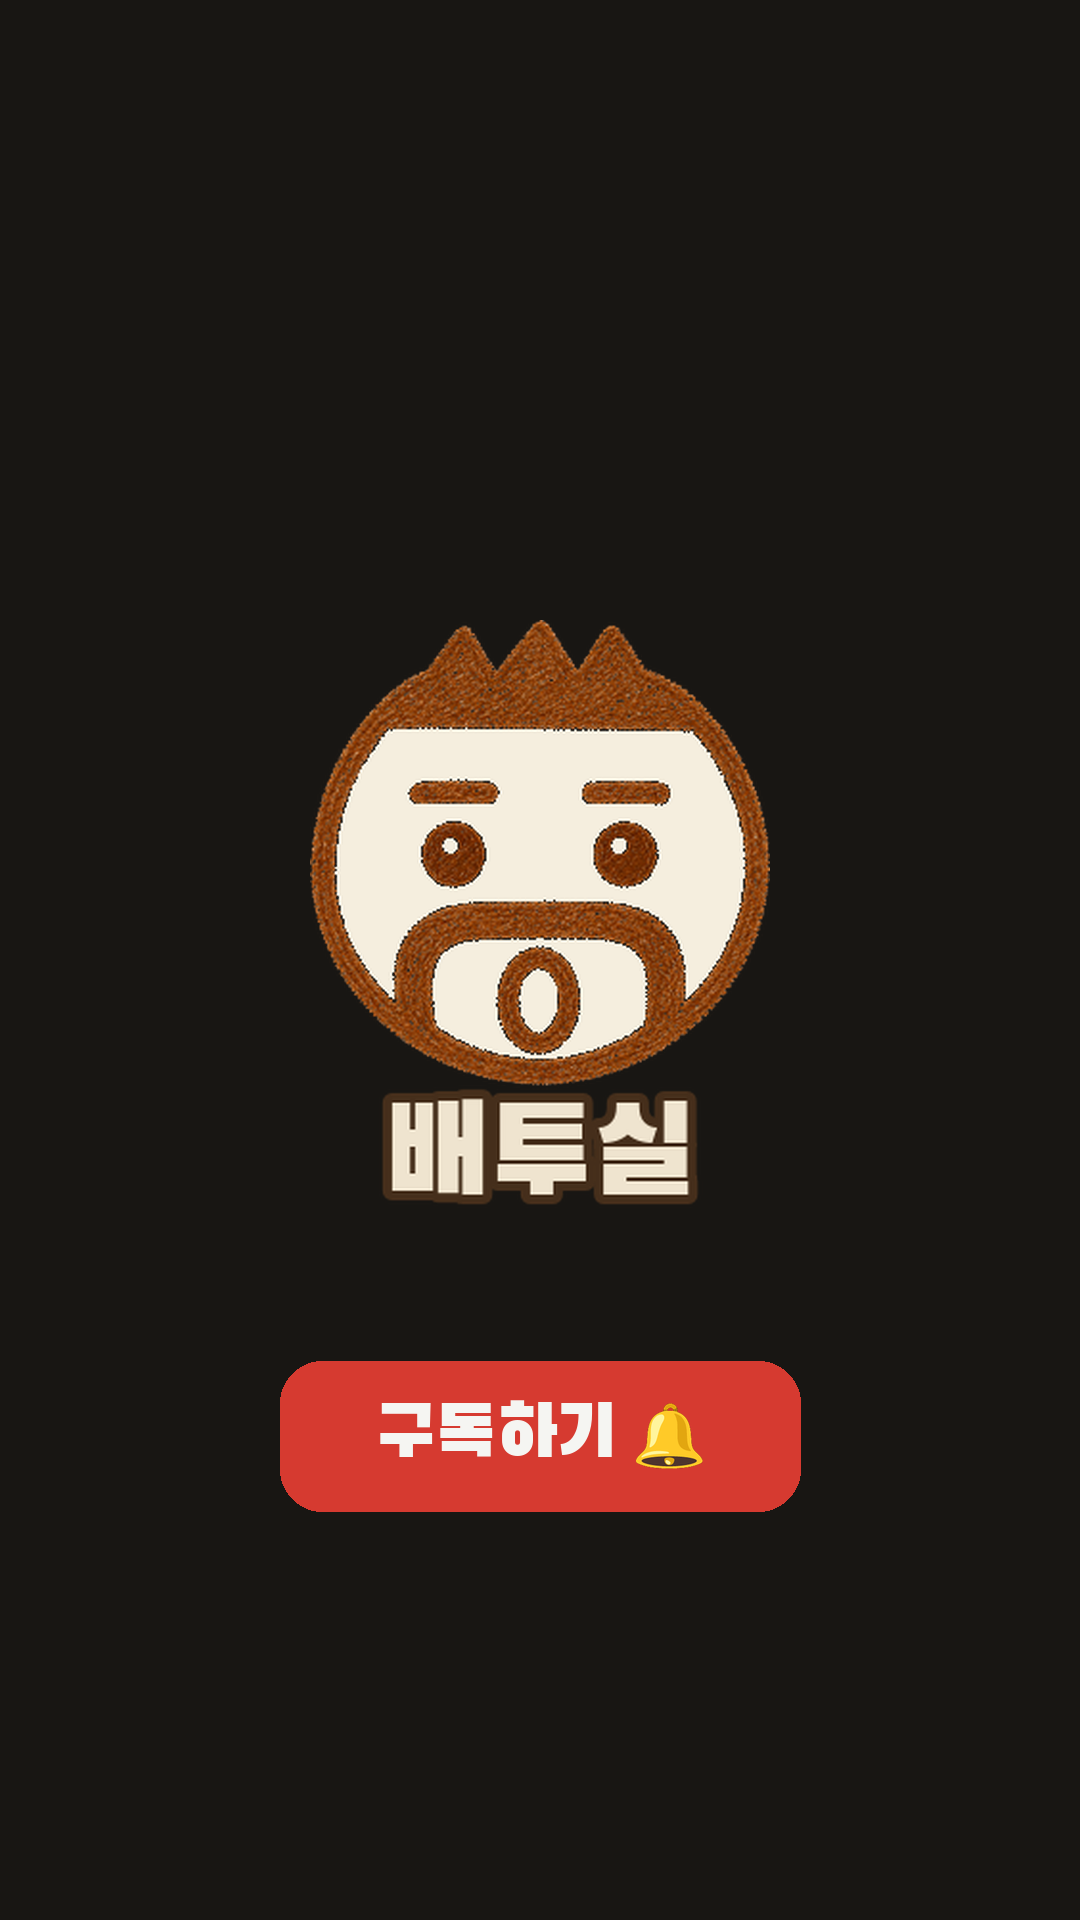
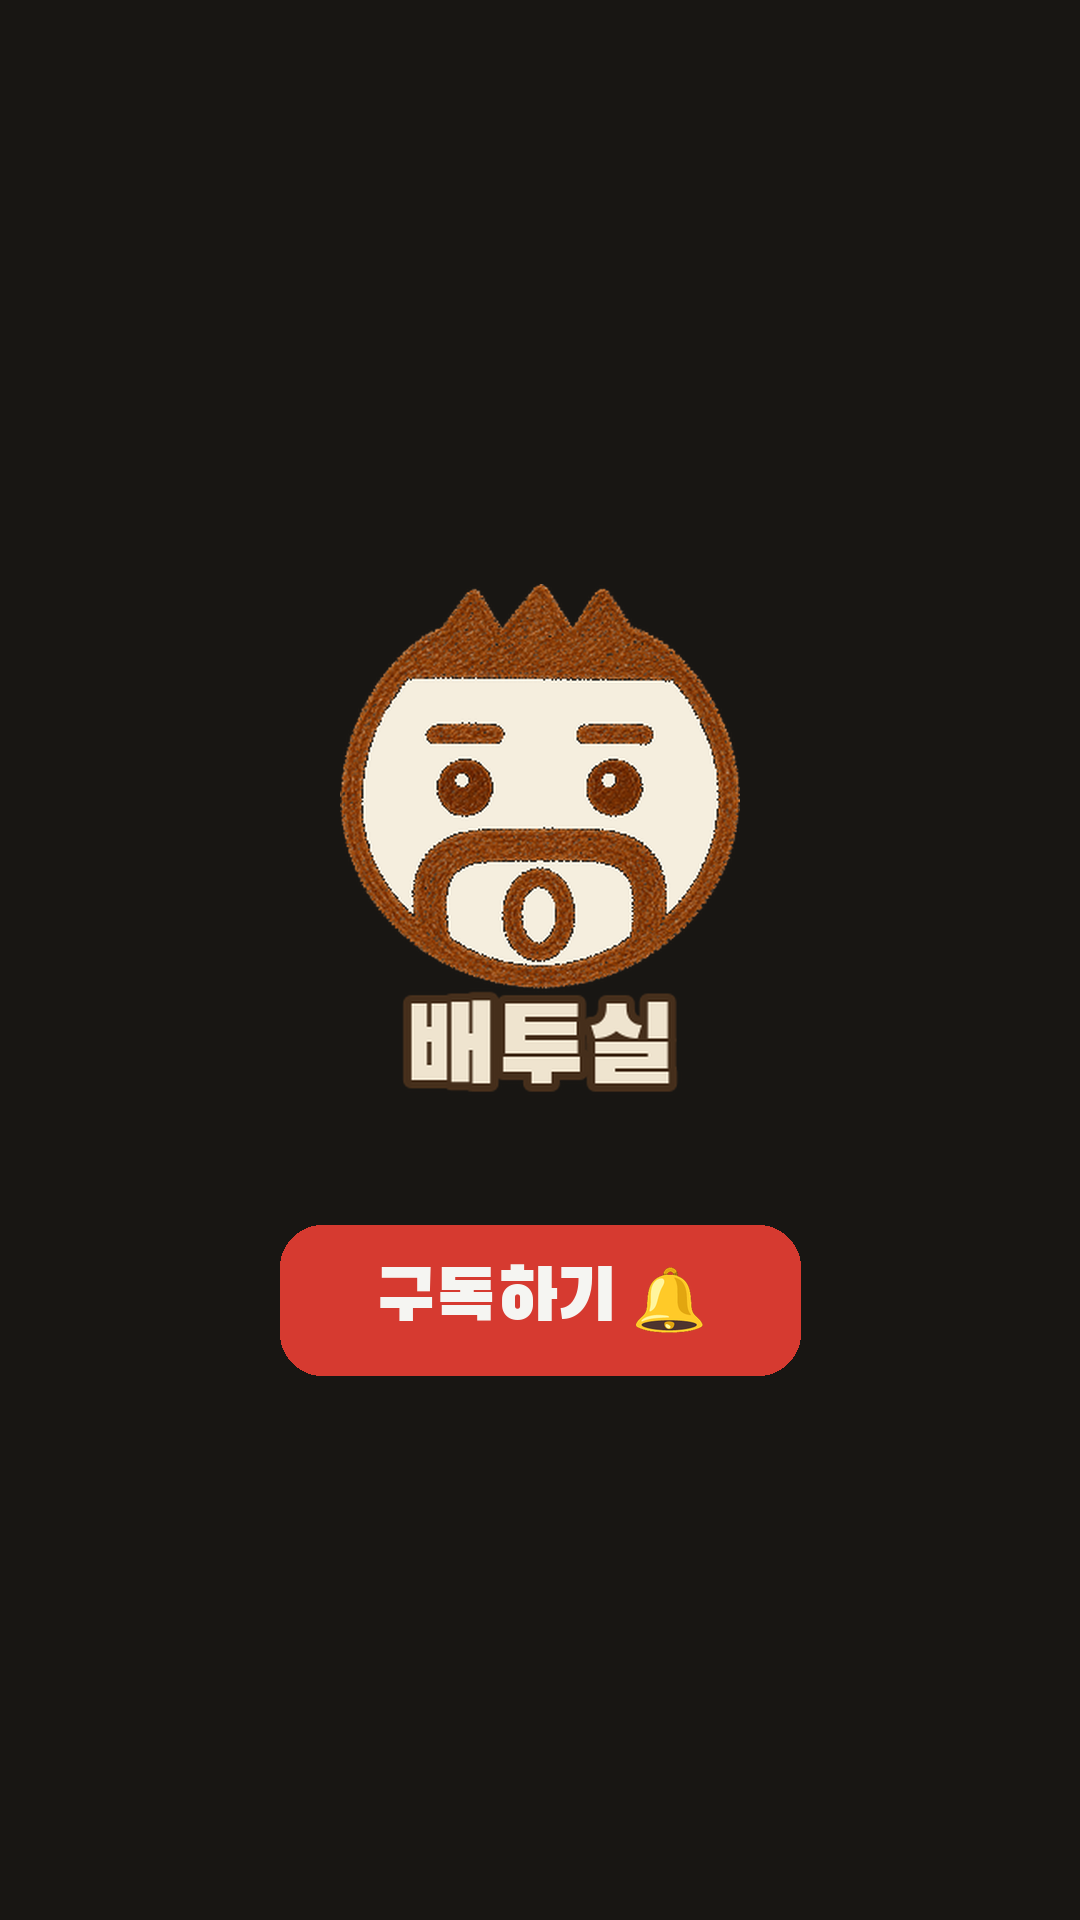
쇼츠 요약표·아웃트로를 그래프와 같은 중앙 세이프밴드(y560~1400)로 정렬
풀스크린이면 상/하단이 YouTube Shorts UI에 가려져 안 보임 → 그래프처럼 중앙 밴드에
배치(상하 레터박스 여백). gen_table·gen_outro 레이아웃 수정.

Claude-Session: https://claude.ai/code/session_0194Vdw38DwMFubXNBMko1aV

Changed region(s): [[0.2444, 0.2812, 0.7639, 0.8125]]

diff --git a/blog/stock_alert/rec/gen_table.py b/blog/stock_alert/rec/gen_table.py
@@ -58,32 +58,36 @@ def main():
     arrow = '▼' if a.dir == 'fall' else '▲'
 
     img = Image.new('RGB', (W, H), (24, 22, 19)); dr = ImageDraw.Draw(img)
-    f_t1 = ImageFont.truetype(FONT, 72); f_t2 = ImageFont.truetype(FONT, 50)
-    # 제목 (시장 + 하락/신고가(색) + TOPn + 이모지)
+    # 그래프와 같은 중앙 세이프밴드(top≈560~1400)에 배치 — 풀스크린이면 Shorts UI에 가려짐.
+    BAND_TOP, BAND_BOT = 560, 1400
+    LX, RX = 120, W - 120                       # 좌우도 살짝 안쪽(우측 액션버튼 회피)
+    f_t1 = ImageFont.truetype(FONT, 64); f_t2 = ImageFont.truetype(FONT, 44)
+    # 제목 (밴드 상단)
     seg = [(f'{mklabel} ', WHITE), (kw, accent), (f' TOP{n}', WHITE)]
     ws = [dr.textlength(t, font=f_t1) for t, _ in seg]
-    em = emoji(emo, 60); tot = sum(ws) + 14 + em.width; x = (W - tot) // 2; yt = 150
+    em = emoji(emo, 54); tot = sum(ws) + 14 + em.width; x = (W - tot) // 2; yt = BAND_TOP
     for (t, c), w in zip(seg, ws):
-        dr.text((x, yt), t, font=f_t1, fill=c, stroke_width=7, stroke_fill=STK, anchor='lm'); x += w
+        dr.text((x, yt), t, font=f_t1, fill=c, stroke_width=6, stroke_fill=STK, anchor='lm'); x += w
     img.paste(em, (int(x + 14), int(yt - em.height // 2)), em)
-    dr.text((W // 2, yt + 80), f'2026년 week {a.week}', font=f_t2, fill=YELLOW, stroke_width=5, stroke_fill=STK, anchor='mm')
+    dr.text((W // 2, yt + 68), f'2026년 week {a.week}', font=f_t2, fill=YELLOW, stroke_width=4, stroke_fill=STK, anchor='mm')
 
-    # 테이블 (세로 중앙, 행높이 적응)
-    avail = 1520; y0 = 300
-    rowh = min(150, avail // n)
-    tbl_h = rowh * n; y0 = 320 + (avail - tbl_h) // 2
-    f_rk = ImageFont.truetype(FONT, 46); f_nm = ImageFont.truetype(FONT, 50); f_dd = ImageFont.truetype(FONT, 50)
+    # 테이블 (제목 아래 ~ 밴드 하단, 행높이 적응)
+    top = yt + 130; avail = BAND_BOT - top
+    rowh = min(96, avail // n)
+    tbl_h = rowh * n; y0 = top + (avail - tbl_h) // 2
+    fs = 44 if n > 6 else 50
+    f_rk = ImageFont.truetype(FONT, fs); f_nm = ImageFont.truetype(FONT, fs); f_dd = ImageFont.truetype(FONT, fs)
     for i, r in enumerate(rows):
         y = y0 + i * rowh
         if i % 2 == 0:
-            dr.rectangle([50, y, W - 50, y + rowh - 12], fill=(34, 31, 27))
-        cy = y + (rowh - 12) // 2
-        dr.text((100, cy), f'{i+1}', font=f_rk, fill=YELLOW, anchor='lm')
-        dr.text((210, cy), name_of(r), font=f_nm, fill=WHITE, anchor='lm')
+            dr.rectangle([LX - 20, y, RX + 20, y + rowh - 8], fill=(34, 31, 27))
+        cy = y + (rowh - 8) // 2
+        dr.text((LX, cy), f'{i+1}', font=f_rk, fill=YELLOW, anchor='lm')
+        dr.text((LX + 100, cy), name_of(r), font=f_nm, fill=WHITE, anchor='lm')
         v = r.get('drawdown_pct') if a.dir == 'fall' else r.get('return_pct')
         val = abs(v) if a.dir == 'fall' else v
         sign = '' if a.dir == 'fall' else ('+' if v >= 0 else '')
-        dr.text((W - 100, cy), f'{arrow}{sign}{val:.1f}%', font=f_dd, fill=accent, anchor='rm')
+        dr.text((RX, cy), f'{arrow}{sign}{val:.1f}%', font=f_dd, fill=accent, anchor='rm')
 
     out = a.out or os.path.join(OUT, f'table_{code}.png')
     img.save(out); print(out, img.size)

diff --git a/blog/stock_alert/rec/gen_outro.py b/blog/stock_alert/rec/gen_outro.py
@@ -23,13 +23,17 @@ def emoji(ch, px):
 
 img = Image.new('RGB', (W, H), (24, 22, 19))
 dr = ImageDraw.Draw(img)
-# 배투실 마스코트(중앙)
-bt = Image.open(BATU).convert('RGBA'); bw = 460
+# 그래프와 같은 중앙 세이프밴드(≈560~1400)에 배치 — 풀스크린이면 Shorts UI에 가려짐.
+BAND_TOP, BAND_BOT = 560, 1400
+bt = Image.open(BATU).convert('RGBA'); bw = 400
 bt = bt.resize((bw, int(bt.height * bw / bt.width)), Image.LANCZOS)
-img.paste(bt, ((W - bw) // 2, 620), bt)
-by = 620 + bt.height
+btn_w, btn_h = 520, 150; GAP = 110
+block_h = bt.height + GAP + btn_h
+top = BAND_TOP + (BAND_BOT - BAND_TOP - block_h) // 2      # 밴드 내 세로 중앙
+img.paste(bt, ((W - bw) // 2, top), bt)
+by = top + bt.height
 # 빨간 구독 버튼 + 벨
-btn_w, btn_h = 520, 150; bx0 = (W - btn_w) // 2; by0 = by + 130
+bx0 = (W - btn_w) // 2; by0 = by + GAP
 dr.rounded_rectangle([bx0, by0, bx0 + btn_w, by0 + btn_h], radius=42, fill=RED)
 bell = emoji('🔔', 66); f_cta = ImageFont.truetype(FONT, 72)
 lbl = '구독하기'; tw = dr.textlength(lbl, font=f_cta); gap = 20; tot = tw + gap + bell.width
